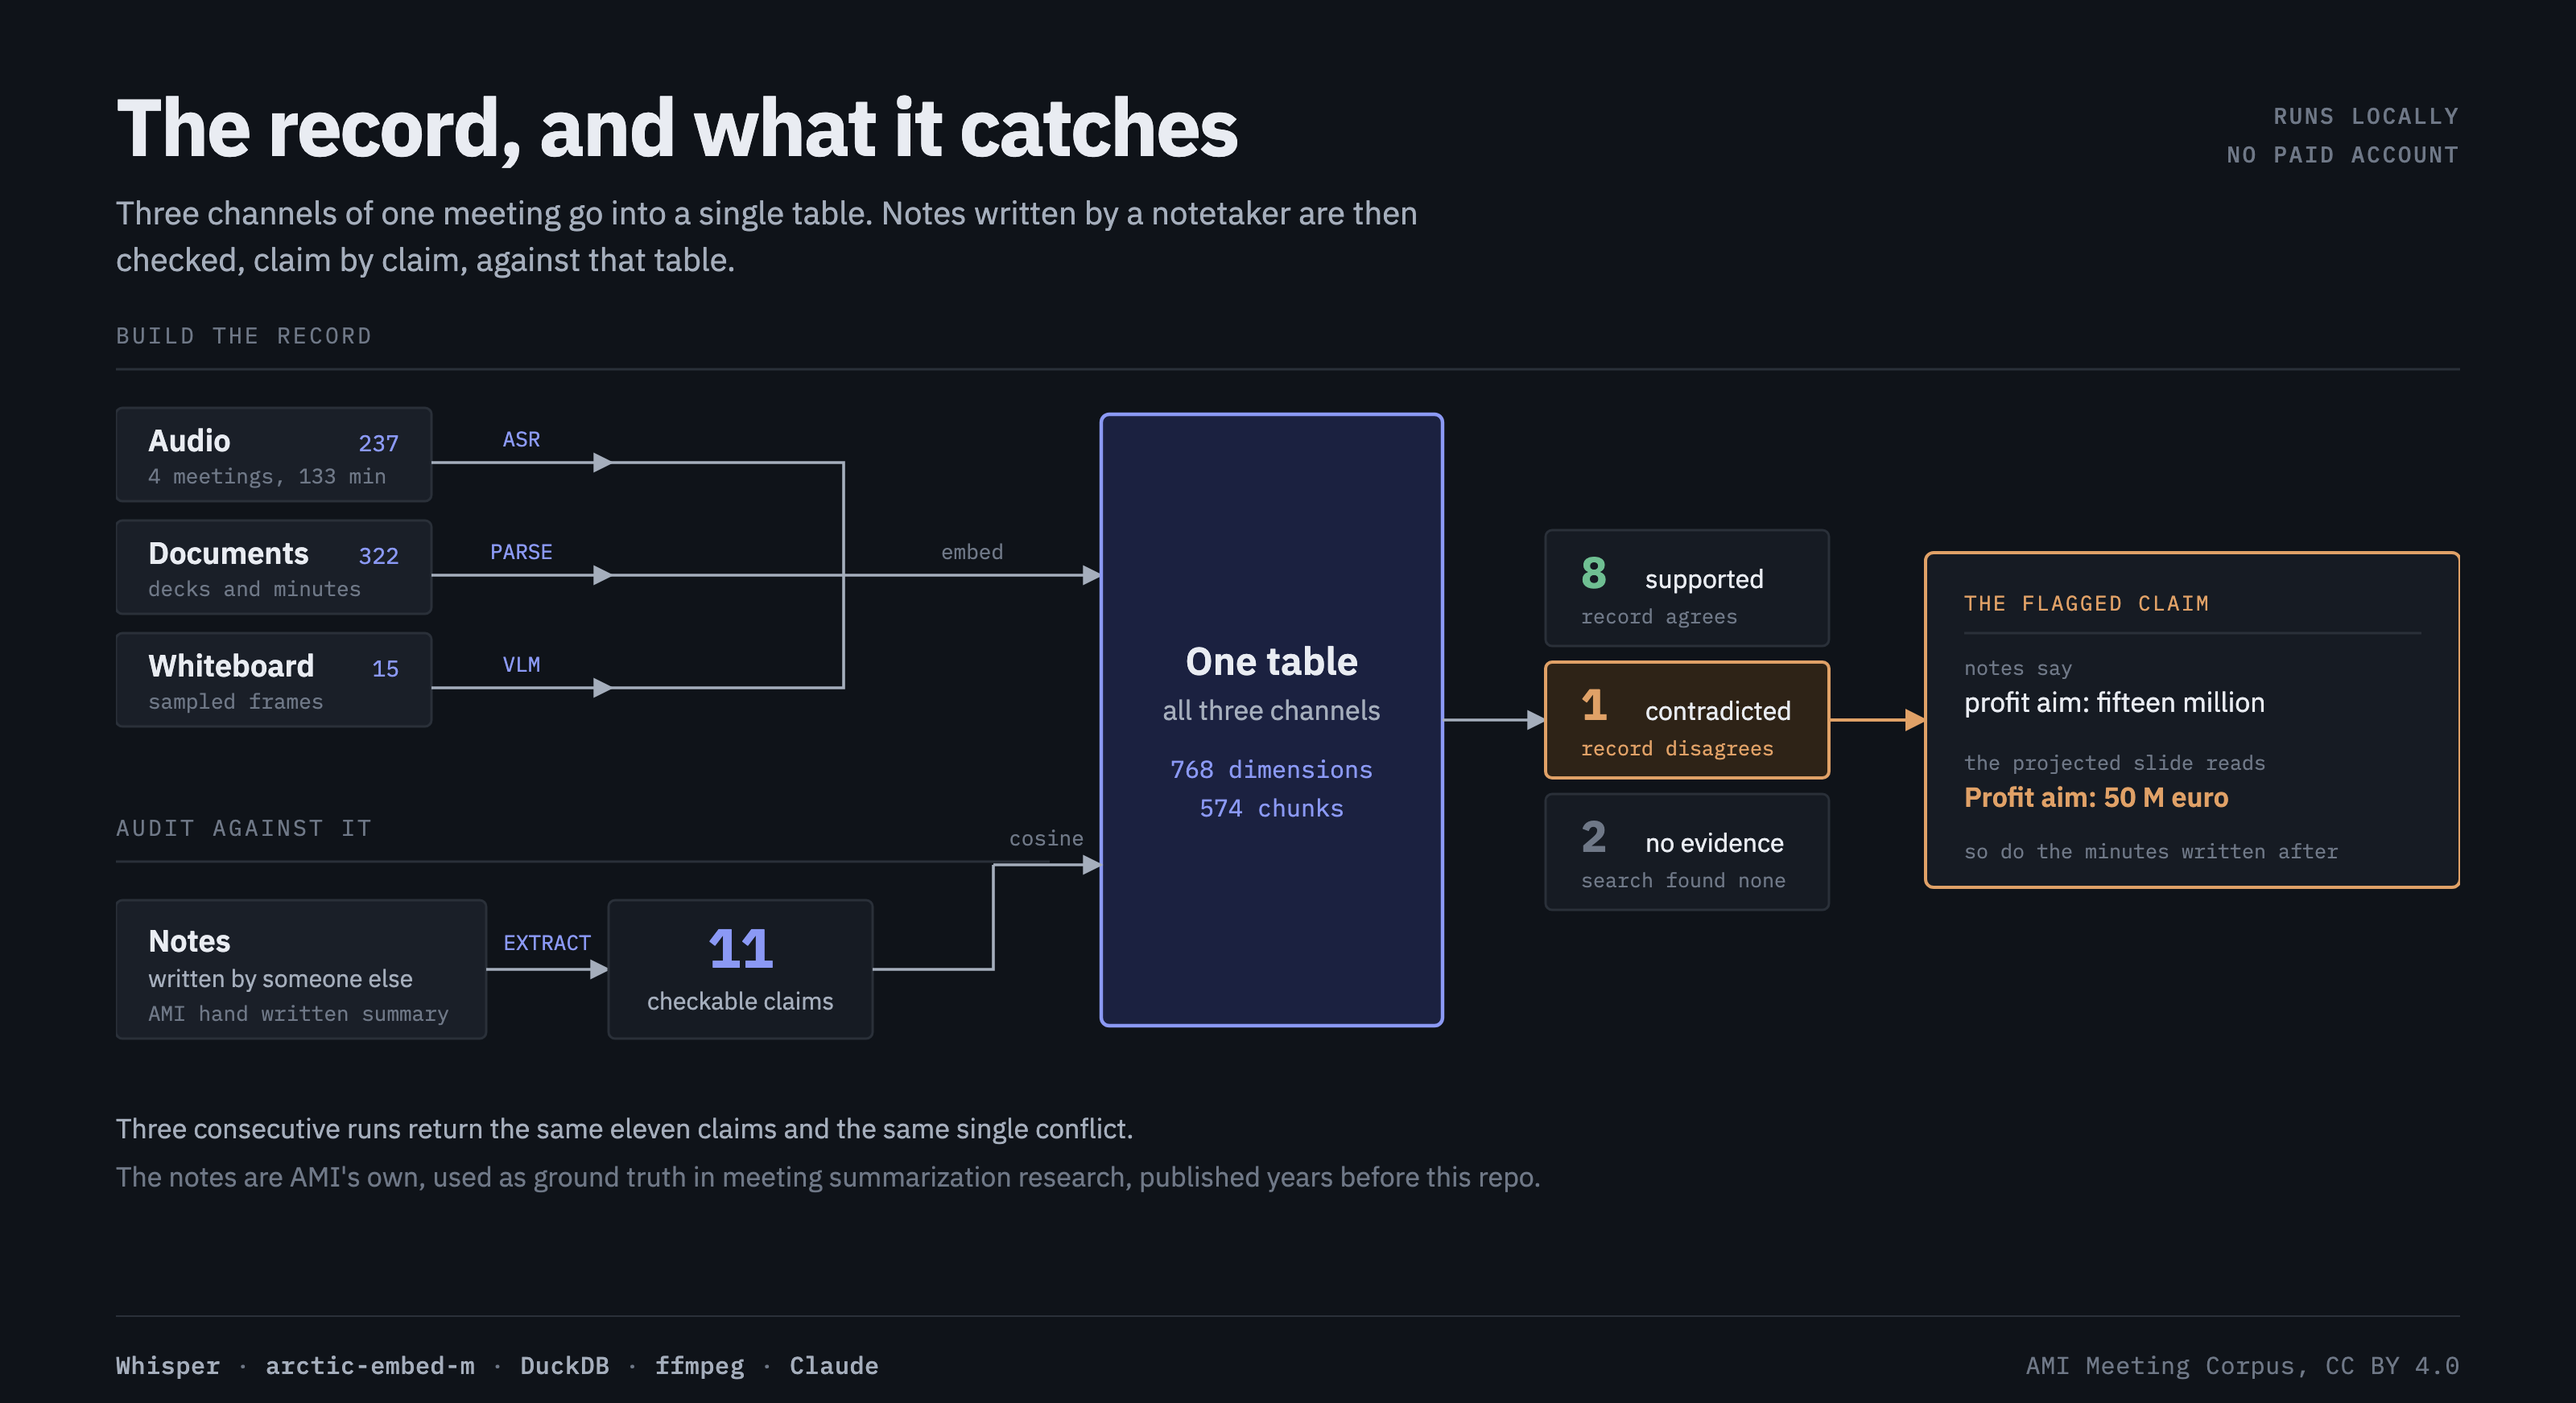
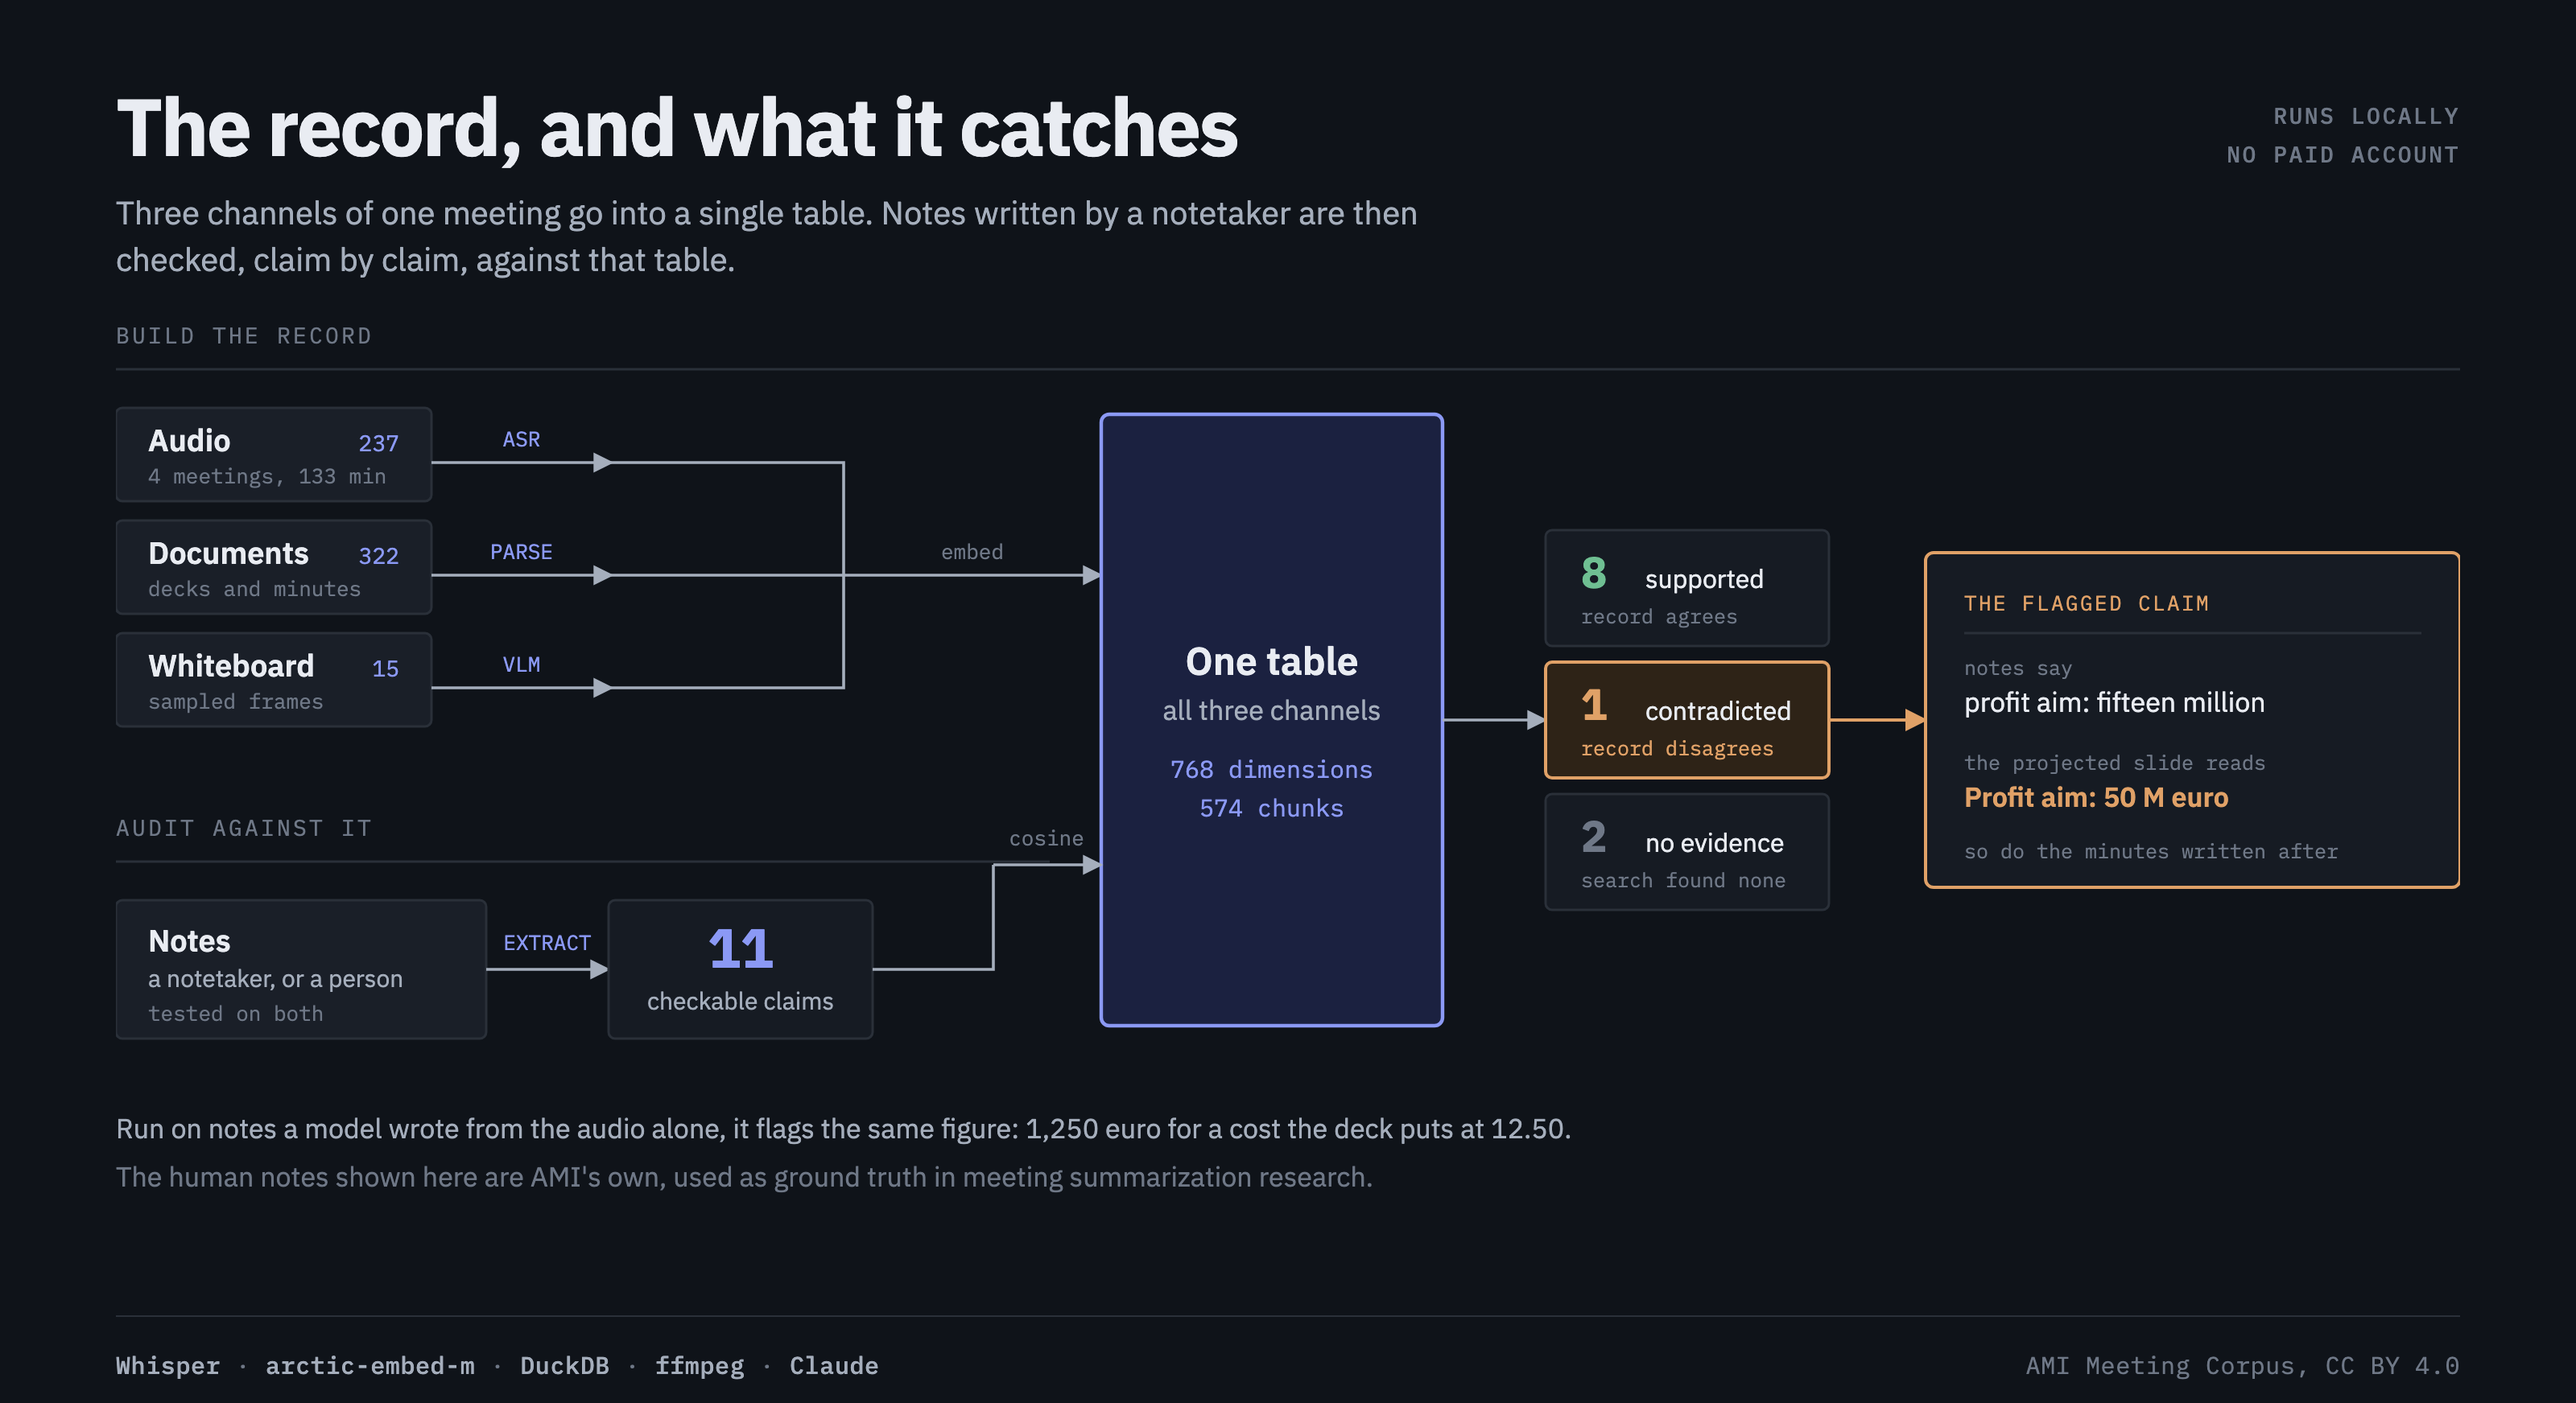
Slide shows both kinds of notes, not only the human ones
The auditor now runs against notes a model wrote as well as AMI's hand
written summary, but the slide still named only the latter as its input.

Adds stage_for_publishing.sh so the copies handed over for posting are
regenerated rather than going stale behind the originals.

Changed region(s): [[0.0625, 0.7741, 0.5938, 0.867], [0.0625, 0.6812, 0.1562, 0.7431]]

diff --git a/docs/slide-full.html b/docs/slide-full.html
@@ -120,8 +120,8 @@
 
     <rect x="0" y="362" width="230" height="86" rx="4" fill="#1A1F28" stroke="#2A3039" stroke-width="1.5"/>
     <text x="20" y="394" font-size="19" font-weight="600" fill="#E9ECF2">Notes</text>
-    <text x="20" y="416" font-size="15" fill="#A5AEBC">written by someone else</text>
-    <text x="20" y="437" font-family="IBM Plex Mono, monospace" font-size="13" fill="#6F7887">AMI hand written summary</text>
+    <text x="20" y="416" font-size="15" fill="#A5AEBC">a notetaker, or a person</text>
+    <text x="20" y="437" font-family="IBM Plex Mono, monospace" font-size="13" fill="#6F7887">tested on both</text>
 
     <line x1="230" y1="405" x2="306" y2="405" stroke="#A5AEBC" stroke-width="1.8" marker-end="url(#a)"/>
     <text x="268" y="393" font-family="IBM Plex Mono, monospace" font-size="13" fill="#8B99F5" text-anchor="middle">EXTRACT</text>
@@ -165,8 +165,8 @@
     <text x="1148" y="304" font-size="17" font-weight="600" fill="#E0A167">Profit aim: 50 M euro</text>
     <text x="1148" y="336" font-family="IBM Plex Mono, monospace" font-size="12.5" fill="#6F7887">so do the minutes written after</text>
 
-    <text x="0" y="510" font-size="17" fill="#A5AEBC">Three consecutive runs return the same eleven claims and the same single conflict.</text>
-    <text x="0" y="540" font-size="17" fill="#6F7887">The notes are AMI's own, used as ground truth in meeting summarization research, published years before this repo.</text>
+    <text x="0" y="510" font-size="17" fill="#A5AEBC">Run on notes a model wrote from the audio alone, it flags the same figure: 1,250 euro for a cost the deck puts at 12.50.</text>
+    <text x="0" y="540" font-size="17" fill="#6F7887">The human notes shown here are AMI's own, used as ground truth in meeting summarization research.</text>
   </svg>
 
   <div class="foot">
